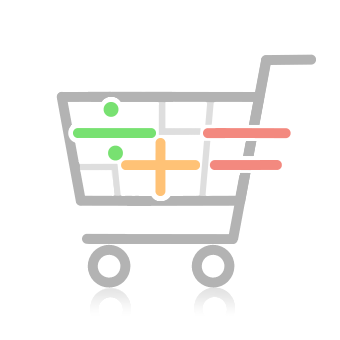
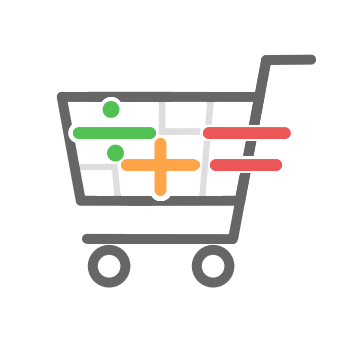
update:アイコンを修正し、AppHeaderに追加 #124

Changed region(s): [[0.1471, 0.1471, 0.9412, 0.8824]]

diff --git a/src/components/layout/AppHeader/AppHeader.js b/src/components/layout/AppHeader/AppHeader.js
@@ -6,6 +6,11 @@ const AppHeader = () => {
 
   return (
     <div className="appHeader">
+      <img
+        src={`${process.env.PUBLIC_URL}/cart_icon_transparent.png`}
+        alt="App Header Icon"
+        className="appHeaderIcon"
+      />
       <div className="title">Calcart</div>
       <SettingMenu />
     </div>

diff --git a/src/components/layout/AppHeader/AppHeader.scss b/src/components/layout/AppHeader/AppHeader.scss
@@ -26,8 +26,13 @@
   align-items: center;
   padding: 1rem;
 
+  .appHeaderIcon {
+    width: 3.2rem;
+    margin-right: 0.3rem;
+  }
+
   .title {
     color: $green-700;
-    font-size: 32px;
+    font-size: 2.2rem;
   }
 }
